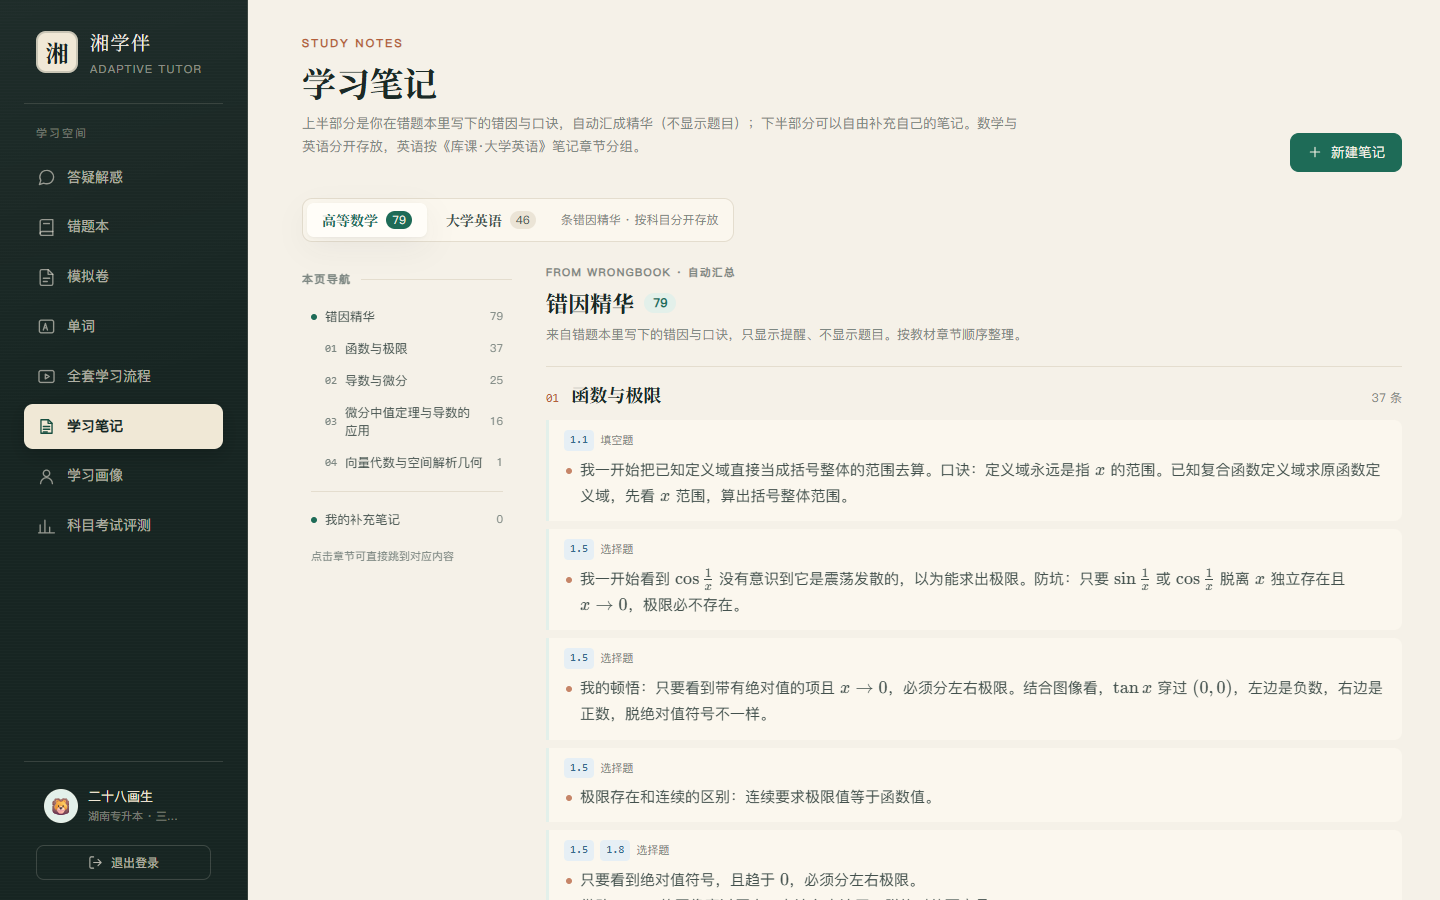
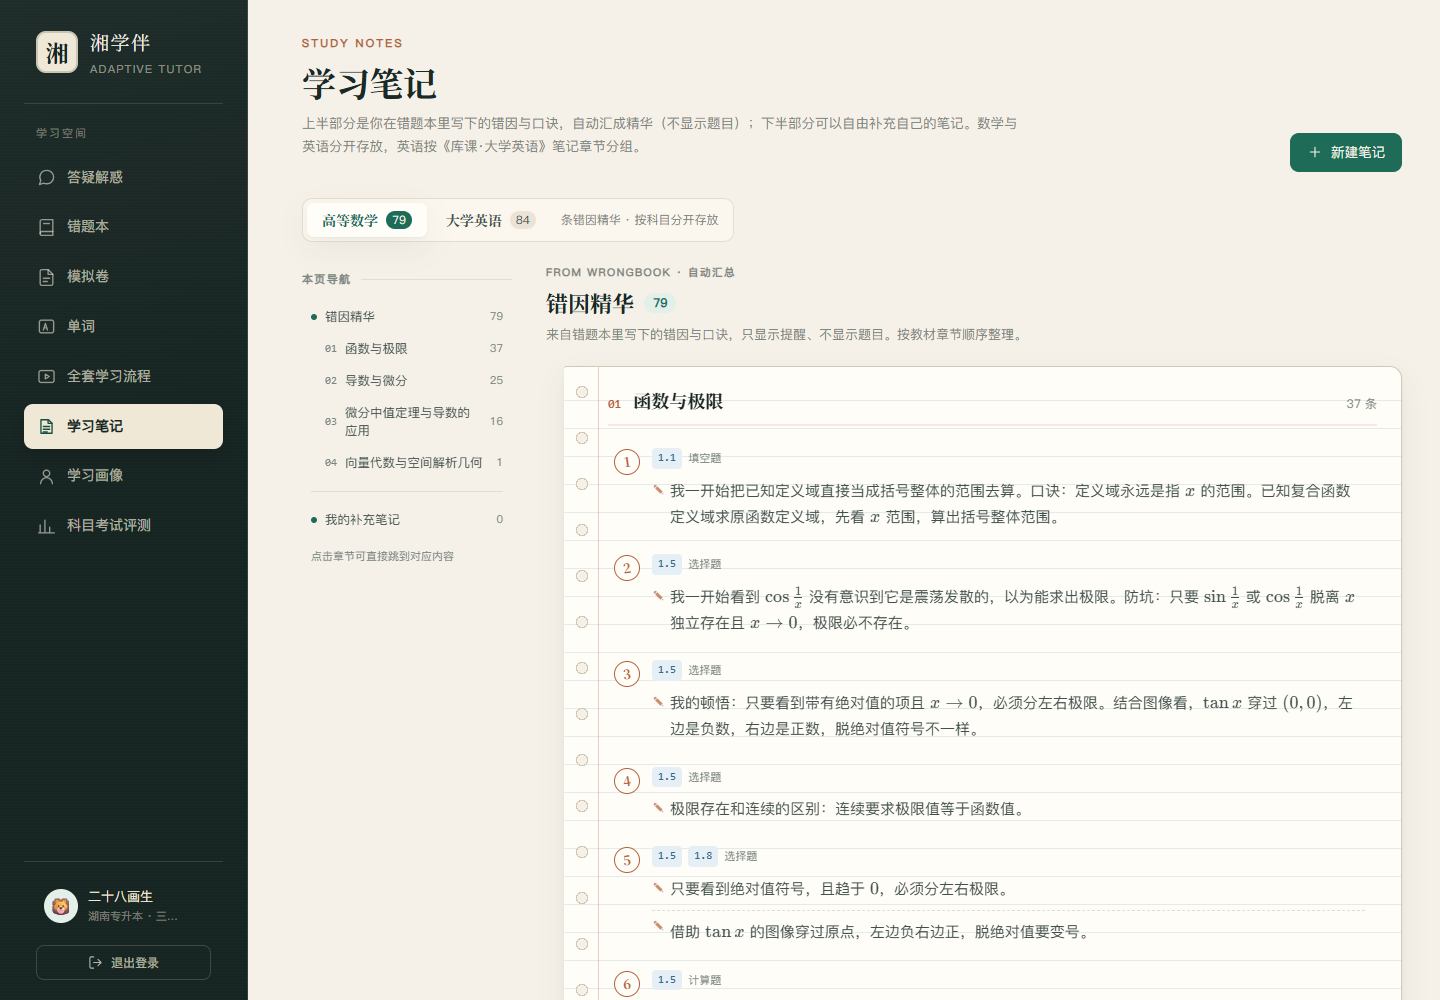
style(notes): 笔记页改为活页笔记本样式(横线纸+装订孔+序号圆章+要点分隔),更新截图

diff --git a/apps/web/src/views/NotesView.vue b/apps/web/src/views/NotesView.vue
@@ -713,23 +713,65 @@ onBeforeUnmount(() => {
   line-height: 1.7;
 }
 
-/* 章：编号 + 标题 + 条目列表 */
+/* ---------- 笔记本 · 活页纸 ---------- */
 .chapter-paper {
-  margin-bottom: 26px;
-  padding-top: 14px;
-  border-top: 1px solid var(--line);
+  position: relative;
+  margin: 0 0 24px 18px;
+  padding: 20px 24px 22px 44px;
+  border: 1px solid var(--line-strong);
+  border-left: 0;
+  border-radius: 3px 12px 12px 3px;
+  background-color: #fffdf7;
+  /* 淡横线纸 */
+  background-image: repeating-linear-gradient(
+    to bottom,
+    transparent 0 27px,
+    rgba(53, 106, 140, 0.13) 27px 28px
+  );
+  background-position: 0 6px;
+  box-shadow: 0 2px 3px rgba(27, 41, 38, 0.04), 0 12px 26px rgba(27, 41, 38, 0.07);
   scroll-margin-top: 20px;
+}
+/* 左侧装订孔 */
+.chapter-paper::before {
+  content: '';
+  position: absolute;
+  left: 9px;
+  top: 16px;
+  bottom: 16px;
+  width: 18px;
+  background-image: radial-gradient(
+    circle at 9px 9px,
+    var(--bg) 0 5px,
+    var(--line-strong) 5px 6px,
+    transparent 6.5px
+  );
+  background-size: 18px 46px;
+  background-repeat: repeat-y;
+}
+/* 红色装订边线 */
+.chapter-paper::after {
+  content: '';
+  position: absolute;
+  left: 34px;
+  top: 0;
+  bottom: 0;
+  width: 1px;
+  background: rgba(180, 95, 59, 0.3);
 }
 .chapter-head {
   display: flex;
   align-items: baseline;
   gap: 12px;
-  margin-bottom: 12px;
+  margin: 0 0 14px;
+  padding-bottom: 10px;
+  border-bottom: 2px solid var(--terra-soft);
 }
 .chapter-no {
   color: var(--terra);
   font-family: ui-monospace, SFMono-Regular, Consolas, monospace;
   font-size: 12px;
+  font-weight: 700;
 }
 .chapter-head h3 {
   flex: 1;
@@ -745,18 +787,39 @@ onBeforeUnmount(() => {
 .entry-list {
   display: flex;
   flex-direction: column;
-  gap: 8px;
+  gap: 4px;
+  /* 给每条记录自动编号 */
+  counter-reset: entryno;
 }
 .entry {
-  padding: 10px 15px 12px;
-  border-left: 3px solid var(--accent-soft);
-  border-radius: 0 8px 8px 0;
-  background: var(--panel-soft);
-  transition: border-color 0.15s ease, background 0.15s ease;
+  position: relative;
+  padding: 8px 12px 9px 44px;
+  border-radius: 6px;
+  transition: background 0.15s ease;
 }
 .entry:hover {
-  border-left-color: var(--accent);
-  background: var(--panel);
+  background: rgba(227, 240, 234, 0.4);
+}
+/* 手写序号圆章 */
+.entry::before {
+  counter-increment: entryno;
+  content: counter(entryno);
+  position: absolute;
+  left: 6px;
+  top: 9px;
+  display: flex;
+  align-items: center;
+  justify-content: center;
+  width: 26px;
+  height: 26px;
+  border: 1.5px solid var(--terra);
+  border-radius: 50%;
+  color: var(--terra);
+  background: #fffdf7;
+  font-family: var(--serif);
+  font-size: 13px;
+  font-weight: 700;
+  transform: rotate(-8deg);
 }
 .entry-meta {
   display: flex;
@@ -783,22 +846,27 @@ onBeforeUnmount(() => {
 }
 .entry-lines li {
   position: relative;
-  padding-left: 16px;
+  padding: 3px 0 3px 18px;
   color: var(--ink-2);
   font-size: 14px;
-  line-height: 1.85;
+  line-height: 1.75;
   overflow-wrap: anywhere;
 }
+/* 每条要点前的小铅笔标记 */
 .entry-lines li::before {
-  content: '';
+  content: '✎';
   position: absolute;
-  left: 2px;
-  top: 0.78em;
-  width: 6px;
-  height: 6px;
-  border-radius: 50%;
-  background: var(--terra);
-  opacity: 0.75;
+  left: 0;
+  top: 3px;
+  color: var(--terra);
+  font-size: 13px;
+  opacity: 0.7;
+}
+/* 要点之间用虚线分隔，像逐条写下的笔记 */
+.entry-lines li + li {
+  margin-top: 5px;
+  padding-top: 8px;
+  border-top: 1px dashed var(--line);
 }
 .entry-lines .rich {
   display: inline;
@@ -853,32 +921,85 @@ onBeforeUnmount(() => {
 .manual-list {
   display: flex;
   flex-direction: column;
-  gap: 12px;
+  gap: 14px;
+  counter-reset: noteno;
 }
 .manual-card {
+  counter-increment: noteno;
+}
+/* 标题前的手写编号 */
+.manual-head h3::before {
+  content: counter(noteno) '.';
+  display: inline-block;
+  margin-right: 8px;
+  color: var(--terra);
+  font-family: var(--serif);
+  font-weight: 700;
+  opacity: 0.8;
+}
+.manual-card {
+  position: relative;
   display: flex;
   overflow: hidden;
-  border: 1px solid var(--line);
-  border-radius: 10px;
-  background: var(--panel);
-  transition: border-color 0.16s ease, box-shadow 0.16s ease;
+  border: 1px solid var(--line-strong);
+  border-radius: 3px 12px 12px 3px;
+  /* 便签纸横线 + 淡黄底 */
+  background-color: #fffdf7;
+  background-image: repeating-linear-gradient(
+    to bottom,
+    transparent 0 27px,
+    rgba(53, 106, 140, 0.1) 27px 28px
+  );
+  background-position: 0 8px;
+  box-shadow: 0 2px 3px rgba(27, 41, 38, 0.04), 0 10px 24px rgba(27, 41, 38, 0.06);
+  transition: box-shadow 0.16s ease, transform 0.16s ease;
 }
 .manual-card:hover {
-  border-color: var(--line-strong);
-  box-shadow: var(--shadow-lift);
+  box-shadow: 0 4px 6px rgba(27, 41, 38, 0.06), 0 16px 34px rgba(27, 41, 38, 0.1);
+  transform: translateY(-1px);
 }
+/* 活页装订孔条 */
 .manual-stripe {
-  width: 4px;
+  position: relative;
+  width: 26px;
   flex-shrink: 0;
+  background: var(--panel-soft);
+  border-right: 1px solid var(--line);
+}
+.manual-stripe::before {
+  content: '';
+  position: absolute;
+  left: 5px;
+  top: 14px;
+  bottom: 14px;
+  width: 14px;
+  background-image: radial-gradient(
+    circle at 7px 7px,
+    var(--bg) 0 4px,
+    var(--line-strong) 4px 4.8px,
+    transparent 5px
+  );
+  background-size: 14px 46px;
+  background-repeat: repeat-y;
+}
+/* 科目色标：顶部小色条 */
+.manual-stripe::after {
+  content: '';
+  position: absolute;
+  top: 12px;
+  bottom: 12px;
+  right: 0;
+  width: 3px;
   background: var(--blue);
 }
-.manual-card.english .manual-stripe {
+.manual-card.english .manual-stripe::after {
   background: var(--terra);
 }
 .manual-inner {
+  position: relative;
   flex: 1;
   min-width: 0;
-  padding: 14px 18px 12px;
+  padding: 16px 22px 14px;
 }
 .manual-head {
   display: flex;

diff --git a/README.md b/README.md
@@ -39,9 +39,9 @@
 |---|---|
 | ![翻转藏译](docs/screenshots/12-趣味记忆-翻转藏译.png) | ![背搭配](docs/screenshots/11-背搭配.png) |
 
-| 学习笔记 | 学习画像 |
+| 学习笔记（数学 · 活页纸） | 学习笔记（英语 · 活页纸） |
 |---|---|
-| ![学习笔记](docs/screenshots/05-学习笔记.png) | ![学习画像](docs/screenshots/06-学习画像.png) |
+| ![学习笔记](docs/screenshots/05-学习笔记.png) | ![笔记英语](docs/screenshots/13-笔记-英语.png) |
 
 | 学习画像 | 个人主页（配置） |
 |---|---|
